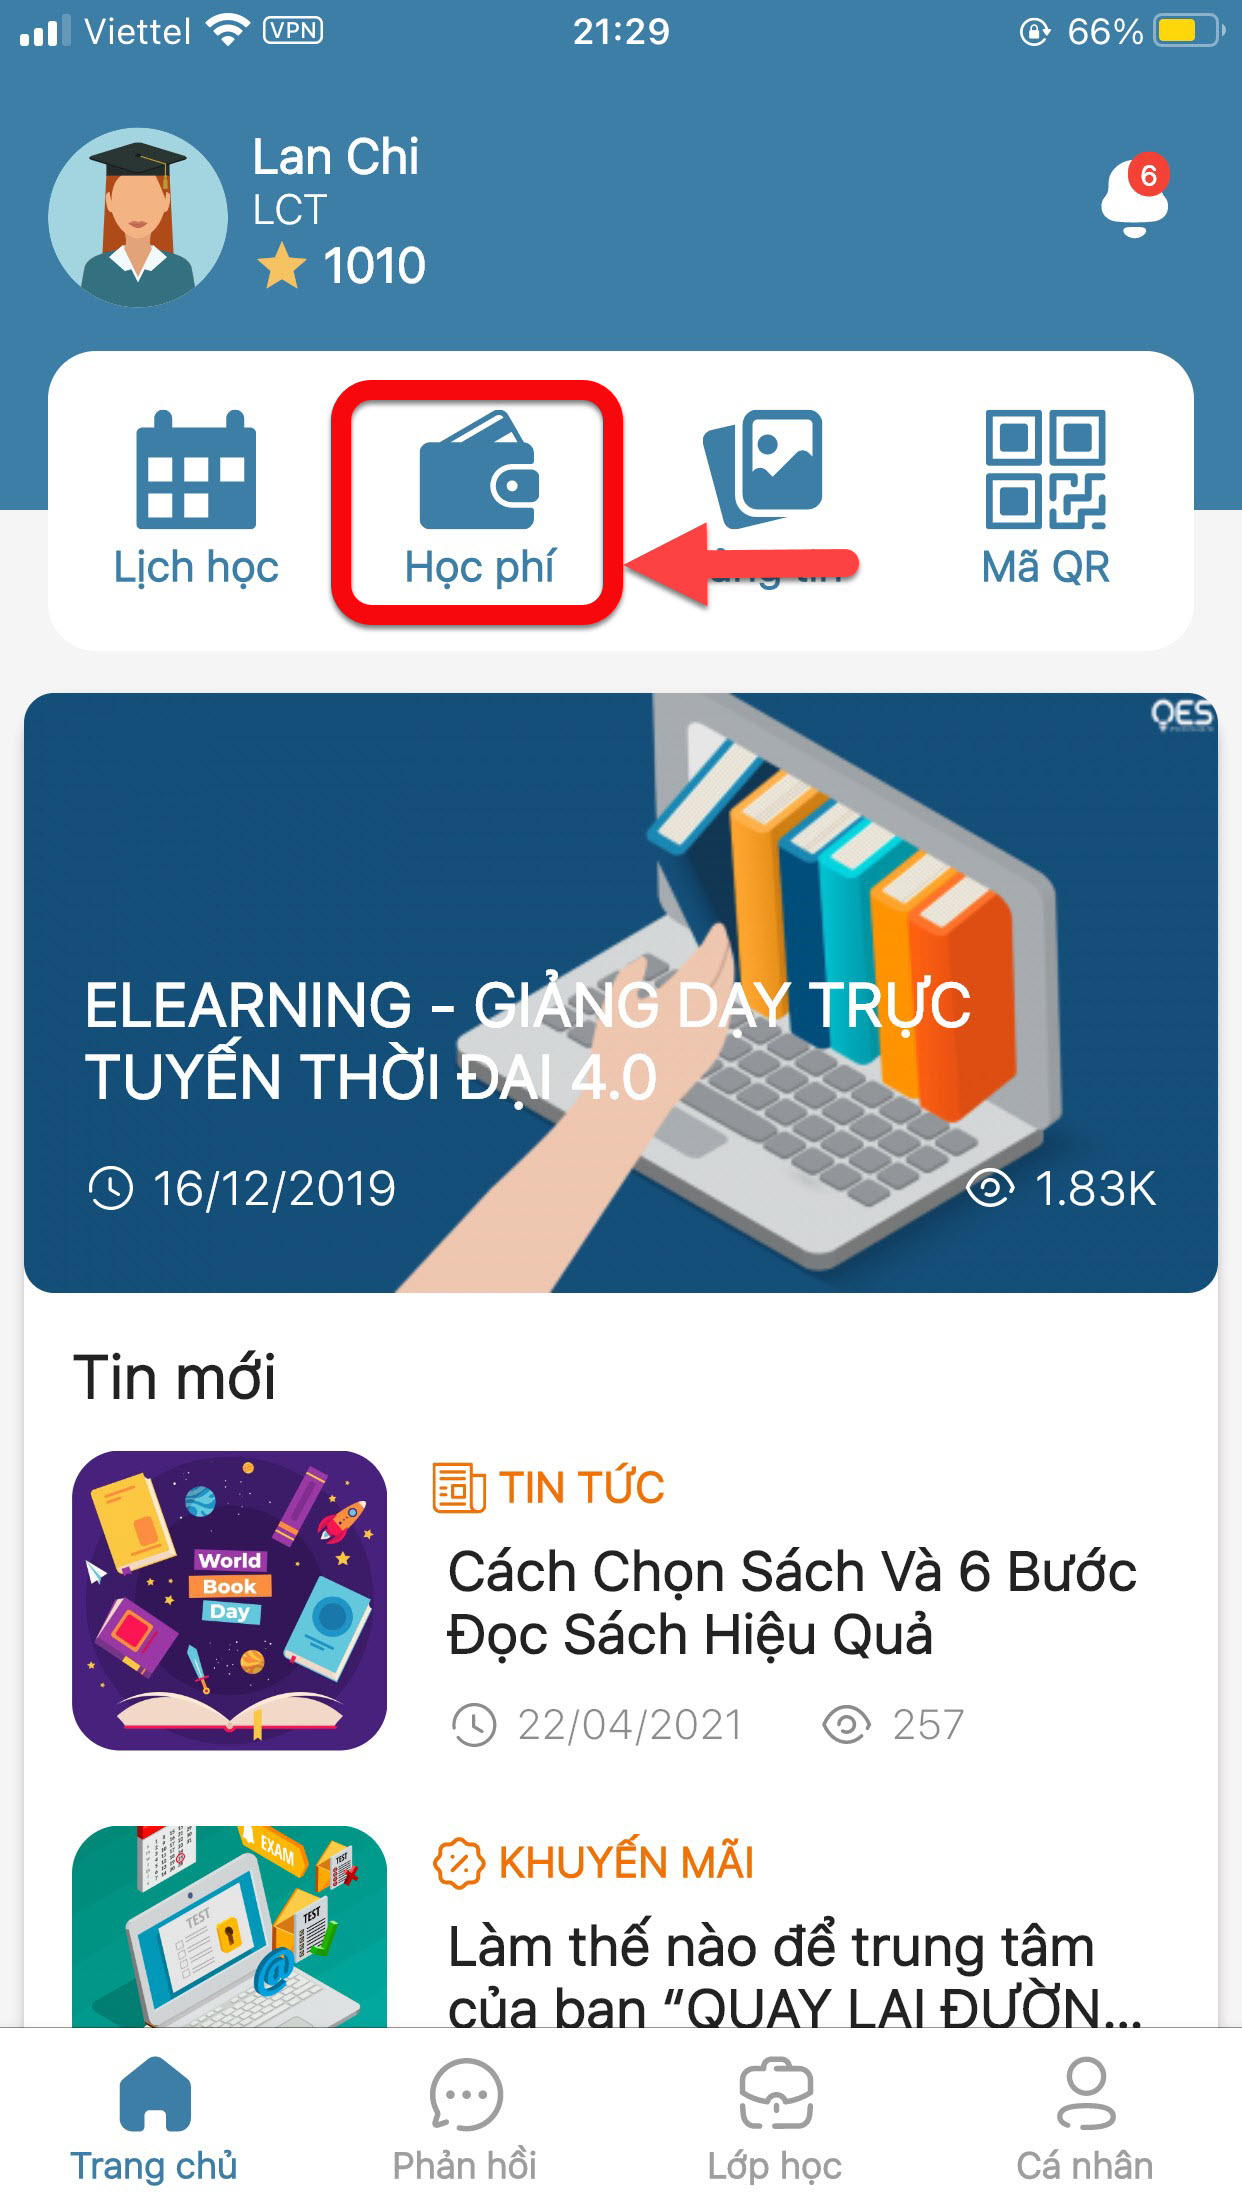
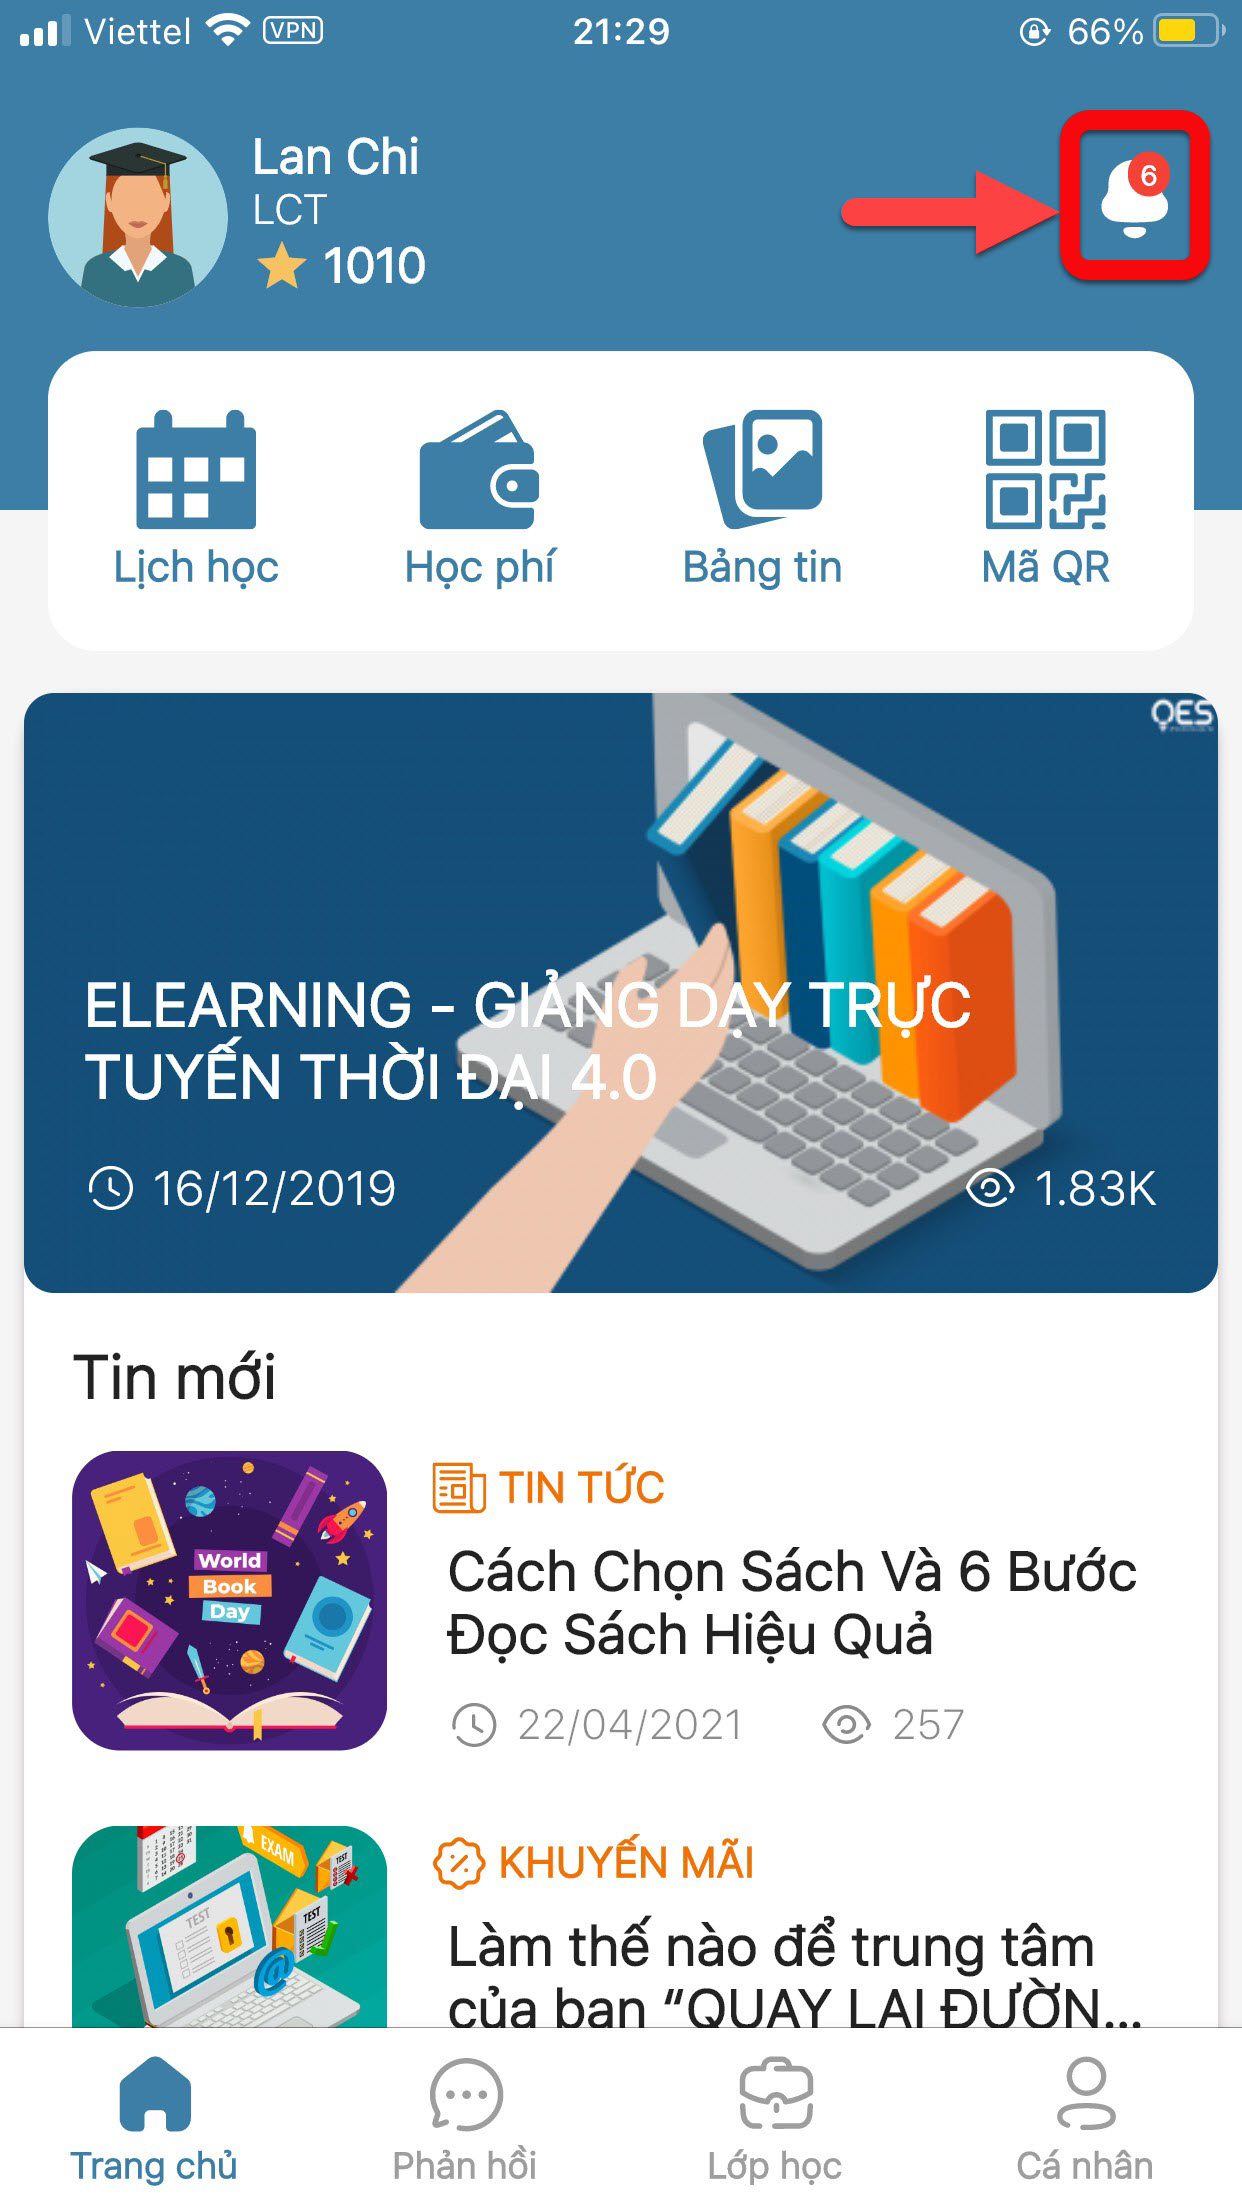
GitBook: [master] 2 pages and 10 assets modified

Changed region(s): [[0.2448, 0.1562, 0.7037, 0.3125], [0.6731, 0.0312, 0.9791, 0.1562]]

diff --git a/mobile/ghi-nhan-phan-hoi.md b/mobile/ghi-nhan-phan-hoi.md
@@ -2,7 +2,7 @@
 
 > Bước 1: Tại màn hình Trang chủ, click vào chức năng Phản hồi để phản hồi về trung tâm.
 
-![](../.gitbook/assets/f00917cec630326e6b21%20%281%29.jpg)
+![](../.gitbook/assets/f00917cec630326e6b21%20%282%29.jpg)
 
 > Bước 2: Click vào biểu tượng dấu cộng góc phải dưới cùng để tạo mới Phản hồi.
 
@@ -19,12 +19,14 @@ Ghi chú:
 2. Tạo phản hồi: Phản hồi dưới dạng gửi văn bản đến trung tâm
 {% endhint %}
 
+> Bước 4: Chọn Loại phản hồi.
 
+![](../.gitbook/assets/7a270e1927e0d3be8af1%20%281%29.jpg)
 
 {% hint style="info" %}
 Ghi chú: 
 
-![](../.gitbook/assets/image%20%288%29.png)
+![](../.gitbook/assets/195c49124bebbfb5e6fa-1-.jpg)
 
 * Loại yêu cầu: 
 
@@ -37,36 +39,26 @@ Ghi chú:
 - Khác \(Những trao đổi khác với 3 nội dung trên\).
 {% endhint %}
 
-> Bước 3: Nhập chủ đề và nội dung cần trao đổi, sau đó nhấn Gửi.
+> Bước 5: Nhập nội dung cần phản hồi, sau đó nhấn Gửi.
 
-![](../.gitbook/assets/image.png)
+![](../.gitbook/assets/c761a5a6a95f5d01044e.jpg)
 
-> Bước 4: Click vào ô Yêu cầu của bạn để theo dõi những nội dung Trao đổi của mình với Trung tâm.
+> Bước 6: Khi trung tâm Phản hồi lại, màn hình sẽ hiển thị thông báo. Click vào để đọc chi tiết tin nhắn được phản hồi.
 
-![](../.gitbook/assets/image%20%281%29%20%281%29.png)
+![](../.gitbook/assets/4f8cbc8acf733b2d6262.jpg)
 
-> Bước 5: Màn hình hiển thị những trao đổi với Trung tâm và trạng thái của.
+> Bước 6: Chi tiết trả lời phản hồi của trung tâm. Có thể tiếp tục cuộc trò chuyện \(nếu cần\).
 
-![](../.gitbook/assets/image%20%2826%29%20%281%29.png)
-
-{% hint style="info" %}
-Ghi chú:
-
-- Đã tiếp nhận: Nội dung Trao đổi đã được gửi đến Trung tâm.
-
-- Đang xử lý: Nội dung Trao đổi đang được Trung tâm xử lý và phản hồi.
-
-- Đã giải quyết: Nội dung Trao đổi đã hoàn tất.
-{% endhint %}
+![](../.gitbook/assets/868d9133e4ca109449db.jpg)
 
 {% hint style="warning" %}
 Ngoài ra, sau khi gửi trao đổi và Trung tâm gửi phản hồi, ta sẽ nhận được tại phần thông báo như sau:
 
 * Click vào nút hình chuông:
 
- ![](../.gitbook/assets/image%20%2815%29%20%281%29.png) 
+ ![](../.gitbook/assets/f00917cec630326e6b21.jpg) 
 
-* Xem thông báo phản hồi về các nội dung Trao đổi: ![](../.gitbook/assets/image%20%2816%29.png) 
+* Xem thông báo nhanh các phản hồi về các nội dung Trao đổi: ![](../.gitbook/assets/5b7f1367609e94c0cd8f.jpg) 
 {% endhint %}
 
 

diff --git a/mobile/lich-su-khoan-thu.md b/mobile/lich-su-khoan-thu.md
@@ -2,7 +2,7 @@
 
 > Bước 1: Tại màn hình Trang chủ, click vào chức năng Học phí để theo dõi lịch sử các khoản thu của học viên.
 
-![](../.gitbook/assets/f00917cec630326e6b21.jpg)
+![](../.gitbook/assets/f00917cec630326e6b21%20%281%29.jpg)
 
 > Bước 2: Ứng dụng sẽ hiển thị danh sách các khoản thu đã thanh toán hoặc chưa thanh toán, khóa học và ngày thanh toán,... Click vào khoản thu để xem chi tiết.
 
